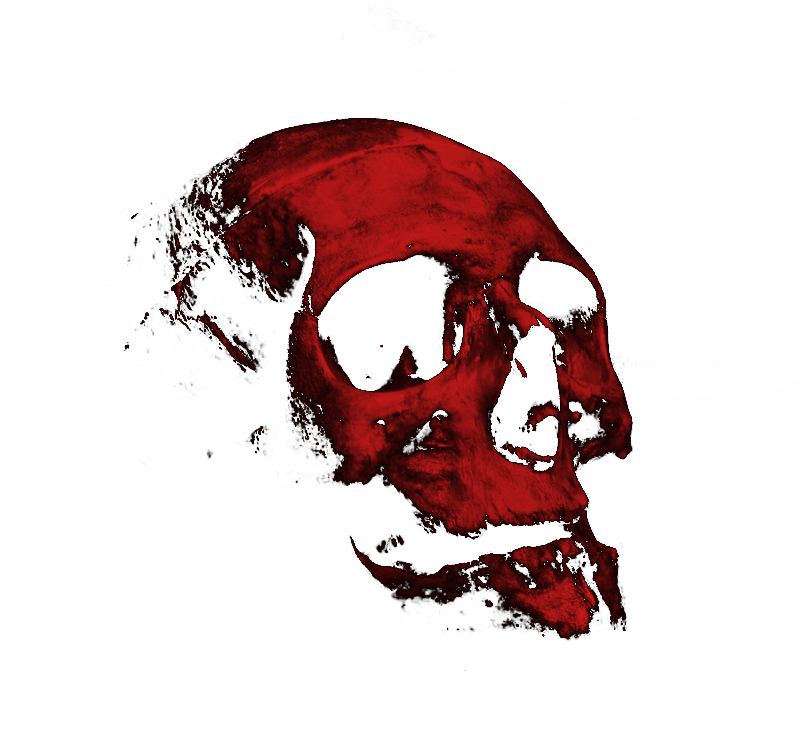
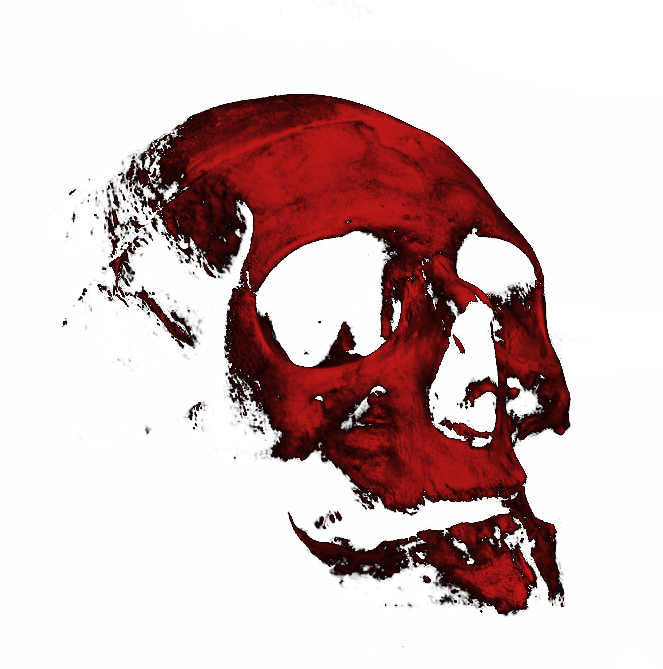
fix picture place

Changed region(s): [[0.1207, 0.1196, 0.8748, 0.9268]]

diff --git a/css/mstyle.css b/css/mstyle.css
@@ -9,10 +9,7 @@ html {
 body {
     line-height: 1.6;
     font-family: -apple-system-font, "Helvetica Neue", Arial, sans-serif;
-    background: url('tou.png') no-repeat;
     background-color: #000;
-    background-size: 500px;
-    background-position: center;
     color: #fff;
     -webkit-overflow-scrolling: touch;
     -webkit-text-size-adjust: 100% !important;
@@ -403,7 +400,14 @@ i,
     opacity: 0.2;
 }
 
-#main #tianxie .r1,
+#main{
+    background: url('tou.png') no-repeat;
+    background-color: #000;
+    background-size: 400px;
+    background-position:top;
+}
+
+#tianxie .r1,
 .r2,
 .r3,
 .r4 {
